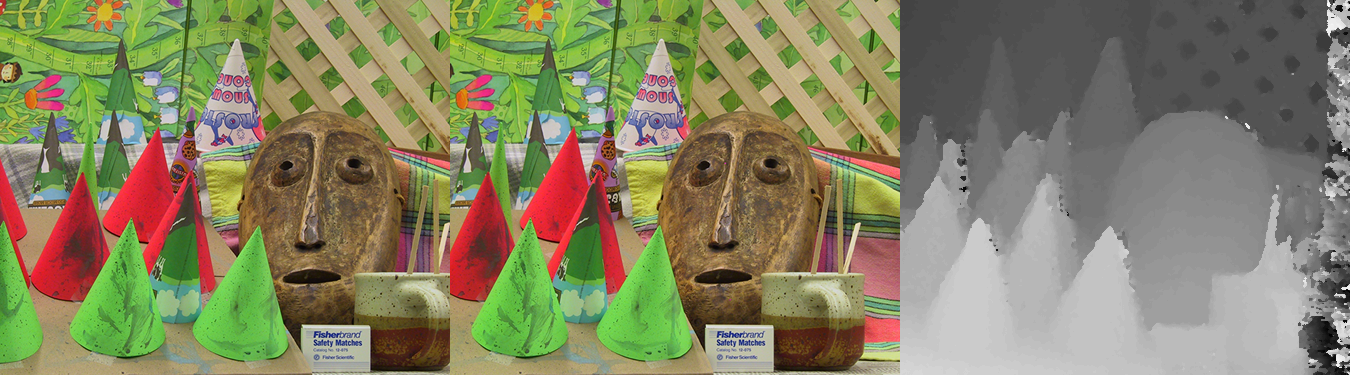
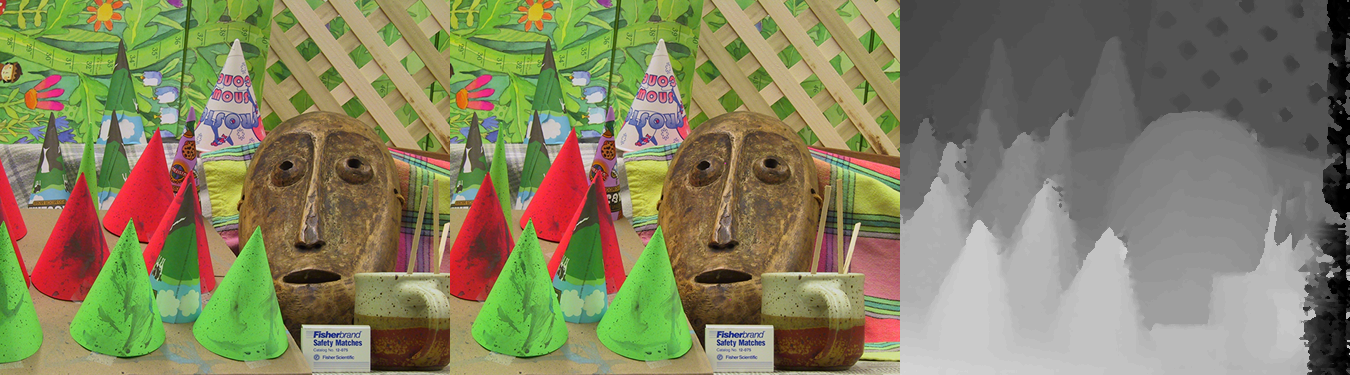
added eval and removed unecessary line for better disparity map

diff --git a/sgm.py b/sgm.py
@@ -208,7 +208,7 @@ def aggregate_costs(cost_volume, parameters, paths):
         path_id = path_id + 2
 
         dusk = t.time()
-        print('\t(done in {:.2f} s)'.format(dusk - dawn))
+        print('\t(done in {:.2f}s)'.format(dusk - dawn))
 
     return aggregation_volume
 
@@ -281,7 +281,7 @@ def compute_costs(left, right, parameters, save_images):
             right_census_values[y, x] = right_census
 
     dusk = t.time()
-    print('\t(done in {:.2f} s)'.format(dusk - dawn))
+    print('\t(done in {:.2f}s)'.format(dusk - dawn))
 
     if save_images:
         cv2.imwrite('left_census.png', left_img_census)
@@ -291,12 +291,10 @@ def compute_costs(left, right, parameters, save_images):
     sys.stdout.flush()
     dawn = t.time()
     cost_volume = np.zeros(shape=(height, width, disparity), dtype=np.uint32)
-    rcensus = np.zeros(shape=(height, width), dtype=np.int32)
+    rcensus = np.zeros(shape=(height, width), dtype=np.int64)
     for d in range(0, disparity):
         rcensus[:, x_offset:(width - d - x_offset)] = right_census_values[:, (x_offset + d):(width - x_offset)]
-        rcensus[:, (width - d - x_offset):(width - x_offset)] = \
-            right_census_values[:, (width - disparity - x_offset):(width - x_offset - disparity + d)]
-        xor = np.int64(np.bitwise_xor(np.int32(left_census_values), rcensus))
+        xor = np.int64(np.bitwise_xor(np.int64(left_census_values), rcensus))
         distance = np.zeros(shape=(height, width), dtype=np.uint32)
         while not np.all(xor == 0):
             tmp = xor - 1
@@ -306,7 +304,7 @@ def compute_costs(left, right, parameters, save_images):
         cost_volume[:, :, d] = distance
 
     dusk = t.time()
-    print('\t(done in {:.2f} s)'.format(dusk - dawn))
+    print('\t(done in {:.2f}s)'.format(dusk - dawn))
 
     return cost_volume
 
@@ -332,17 +330,34 @@ def normalize(volume, parameters):
     return 255.0 * volume / parameters.max_disparity
 
 
+def get_recall(disparity, gt, args):
+    """
+    computes the recall of the disparity map.
+    :param disparity: disparity image.
+    :param gt: path to ground-truth image.
+    :param args: program arguments.
+    :return: rate of correct predictions.
+    """
+    gt = np.float32(cv2.imread(gt, cv2.IMREAD_GRAYSCALE))
+    gt = np.int16(gt / np.amax(gt) * float(args.disp))
+    disparity = np.int16(np.float32(disparity) / np.amax(disparity) * float(args.disp))
+    correct = np.count_nonzero(np.abs(disparity - gt) <= 3)
+    return float(correct) / gt.size
+
+
 def sgm():
     """
     main function applying the semi-global matching algorithm.
     :return: void.
     """
     parser = argparse.ArgumentParser()
-    parser.add_argument('--left', default='cones/im2.png', help='name (path) to the left image')
-    parser.add_argument('--right', default='cones/im6.png', help='name (path) to the right image')
+    parser.add_argument('--left', default='teddy/im2.png', help='name (path) to the left image')
+    parser.add_argument('--right', default='teddy/im6.png', help='name (path) to the right image')
+    parser.add_argument('--gt', default='teddy/disp6.png', help='name (path) to the ground-truth image')
     parser.add_argument('--output', default='disparity_map.png', help='name of the output image')
     parser.add_argument('--disp', default=64, help='maximum disparity for the stereo pair')
     parser.add_argument('--images', default=False, help='save intermediate representations (e.g. census images)')
+    parser.add_argument('--eval', default=True, help='evaluate disparity map with 3 pixel error')
     args = parser.parse_args()
 
     left_name = args.left
@@ -353,7 +368,7 @@ def sgm():
 
     dawn = t.time()
 
-    parameters = Parameters(max_disparity=disparity, P1=5, P2=70, csize=(7, 7), bsize=(3, 3))
+    parameters = Parameters(max_disparity=disparity, P1=10, P2=120, csize=(7, 7), bsize=(3, 3))
     paths = Paths()
 
     print('\nLoading images...')
@@ -377,9 +392,14 @@ def sgm():
     disparity_map = cv2.medianBlur(disparity_map, parameters.bsize[0])
     cv2.imwrite(output_name, disparity_map)
 
+    if args.eval:
+        print('\nEvaluating disparity map...')
+        recall = get_recall(disparity_map, args.gt, args)
+        print('\tRecall = {:.2f}%'.format(recall * 100.0))
+
     dusk = t.time()
     print('\nFin.')
-    print('\nTotal execution time = {:.2f} s'.format(dusk - dawn))
+    print('\nTotal execution time = {:.2f}s'.format(dusk - dawn))
 
 
 if __name__ == '__main__':

diff --git a/README.md b/README.md
@@ -18,12 +18,12 @@ $ cd path/to/semi-global-matching
 
 #### Usage
 ```
-python3 sgm.py --left [LEFT IMAGE NAME] --right [RIGHT IMAGE NAME] --output [OUTPUT IMAGE NAME] --disp [MAXIMUM DISPARITY] --images [TRUE OR FALSE]
+python3 sgm.py --left [LEFT IMAGE NAME] --right [RIGHT IMAGE NAME] --gt [GT IMAGE NAME] --output [OUTPUT IMAGE NAME] --disp [MAXIMUM DISPARITY] --images [TRUE OR FALSE] --val [TRUE OR FALSE]
 ```
 
 #### Example
 ```
-python3 sgm.py --left cones/im2.png --right cones/im6.png --output disparity_map.png --disp 64 --images False
+python3 sgm.py --left cones/im2.png --right cones/im6.png --gt cones/disp6.png --output disparity_map.png --disp 64 --images False --eval True
 ```
 
 #### Other implementations
